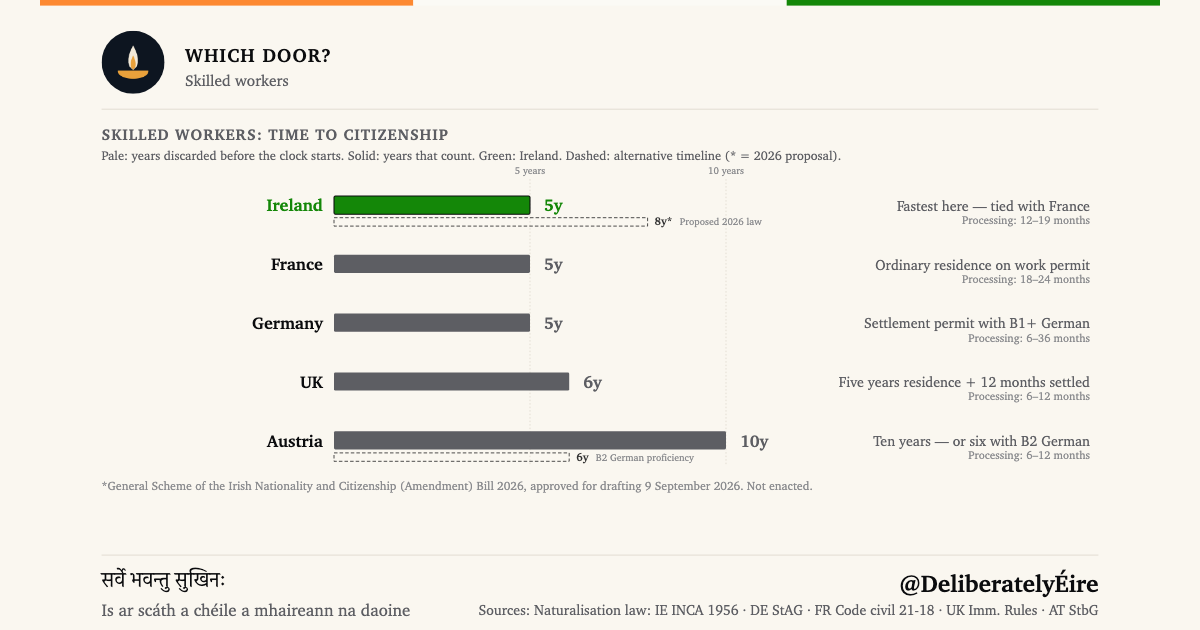
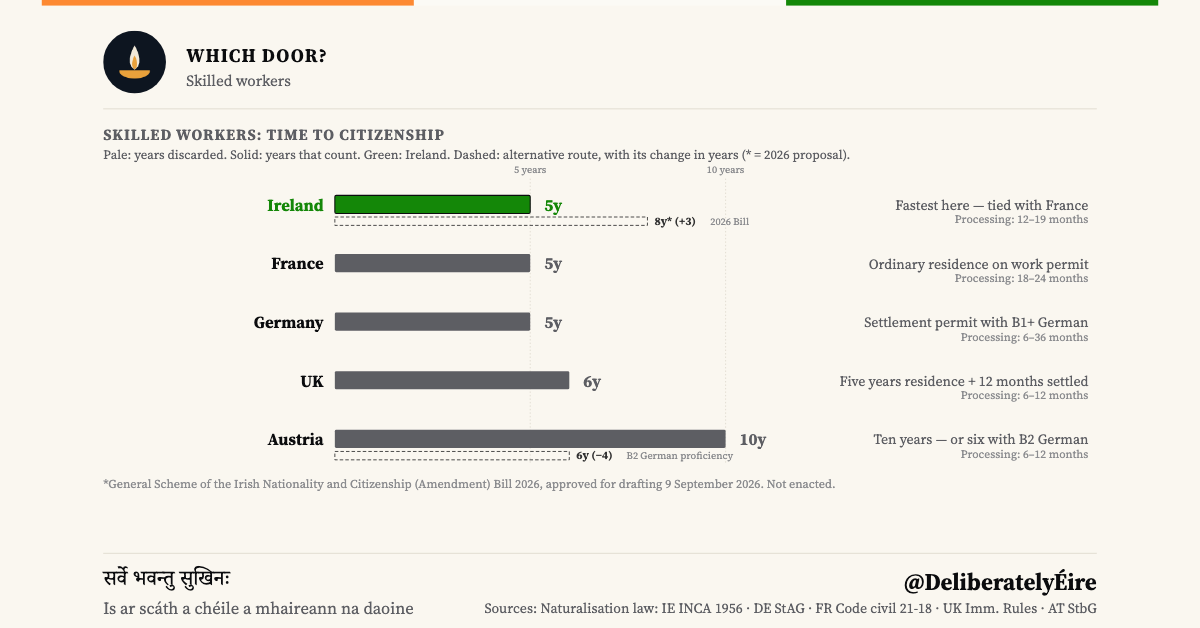
Refresh both post covers and embed faces in the framed-chart generator
`ireland-citizenship/cover.png` is the featured post's cover, so it feeds
the homepage hero, the blog card and og:image. It was a render of
workers_framed.svg from before the typeface work and before 2792820, so
it carried the old Charter/Georgia latin, the OS-fallback Devanagari, and
the superseded "alternative timeline" wording. Re-rendered from the
current SVG at the same geometry.

generate_framed_charts.py wrote the frame's own stacks and never called
embed_font, so regenerating the four figures would have quietly undone
the fix; only generate_bill_visuals.py had the call. Wired in to match.
Note the script still cannot run from a clean checkout — its CSVs are
gitignored (.gitignore:29) — so embed_font.py standalone remains the path
that works everywhere.

diff --git a/scripts/generate_framed_charts.py b/scripts/generate_framed_charts.py
@@ -23,6 +23,9 @@ OUTPUT_DIR = PROJECT_DIR / "src" / "content" / "posts" / "ireland-citizenship"
 TEMP_DIR = Path("/tmp/citizenship-charts")
 POST_VISUALS_DIR = Path.home() / ".claude" / "skills" / "synced" / "57179235-8abd-44f1-933a-6ad93664feb8_da48fdcd-c46a-415c-ac7b-9f1904cf05f6" / "post-visuals"
 
+sys.path.insert(0, str(SCRIPTS_DIR))
+from embed_font import embed as embed_site_faces  # noqa: E402
+
 PIXELS_PER_YEAR = 56
 BAR_X = 420
 BAR_H = 26
@@ -242,6 +245,9 @@ def generate_frame_and_chart(pathway_key, config):
 
     chart_svg = generate_chart_svg(data, config)
     framed = frame_svg_path.read_text().replace("<!-- CONTENT -->", chart_svg)
+    # The frame's stacks are neither of the site's faces, and an SVG in an <img>
+    # cannot pull the page's webfonts. Carry both faces in the file.
+    framed = embed_site_faces(framed)
 
     out = OUTPUT_DIR / f"{pathway_key}_framed.svg"
     out.write_text(framed)
